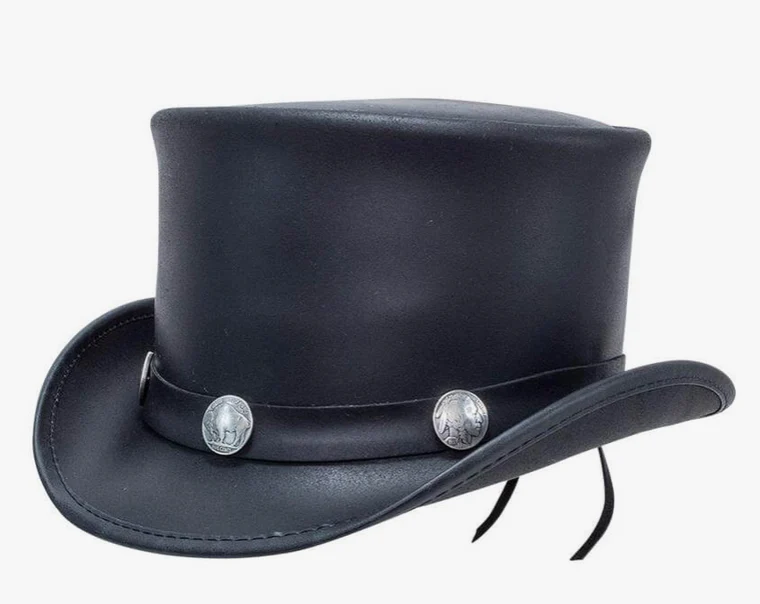
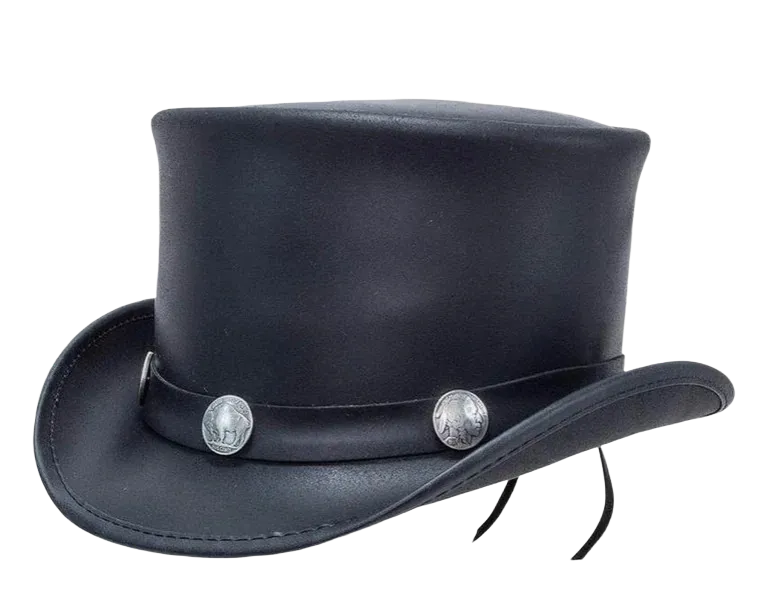
chore: convert images to webp for better site optimization

diff --git a/src/components/More.tsx b/src/components/More.tsx
@@ -22,7 +22,7 @@ export default function More() {
 
             <img
               className="rounded-full mr-4 border-10 border-purple-600"
-              src="/assets/images/sun-rise.jpg"
+              src="/assets/images/sun-rise.webp"
               alt="Sun Rise"
               width={250}
               height={250}
@@ -38,7 +38,7 @@ export default function More() {
               <div className="relative border w-80 h-50 border-10 border-yellow-400">
                 <img
                   className="absolute left-[-40px] bottom-[-40px] z-5"
-                  src="/assets/images/bucket-hat3.png"
+                  src="/assets/images/bucket-hat3.webp"
                   alt="Bucket Hat"
                   width={250}
                   height={250}
@@ -66,7 +66,7 @@ export default function More() {
             <div className="relative overflow-hidden border w-50 h-50 border-10 border-yellow-400 lg:w-80 lg:h-70">
               <img
                 className="absolute left-0 bottom-[-20px] z-5"
-                src="/assets/images/bucket-model2.png"
+                src="/assets/images/bucket-model2.webp"
                 alt="Bucket Model"
                 width={500}
                 height={250}
@@ -86,7 +86,7 @@ export default function More() {
             <div className="relative overflow-hidden border w-80 h-80 border-10 border-yellow-400 lg:w-100 lg:h-100">
               <img
                 className="absolute left-0 bottom-[-20px] z-5"
-                src="/assets/images/bucket-model.png"
+                src="/assets/images/bucket-model.webp"
                 alt="Bucket Model"
                 width={500}
                 height={250}
@@ -106,7 +106,7 @@ export default function More() {
 
             <img
               className="rounded-full mr-4 border-10 border-purple-600"
-              src="/assets/images/winter.jpg"
+              src="/assets/images/winter.webp"
               alt="Winter"
               width={250}
               height={250}
@@ -122,7 +122,7 @@ export default function More() {
               <div className="relative border w-60 h-50 border-10 border-cyan-400">
                 <img
                   className="absolute left-[-40px] bottom-[-100px] z-5"
-                  src="/assets/images/beanie.png"
+                  src="/assets/images/beanie.webp"
                   alt="Beanie"
                   width={250}
                   height={250}
@@ -135,7 +135,7 @@ export default function More() {
             <div className="relative overflow-hidden border w-50 h-60 border-10 border-cyan-400 lg:w-80 lg:h-70">
               <img
                 className="absolute left-[0px] bottom-[-20px] z-5"
-                src="/assets/images/beanie-model.png"
+                src="/assets/images/beanie-model.webp"
                 alt="Beanie Model"
                 width={250}
                 height={250}
@@ -151,7 +151,7 @@ export default function More() {
             <div className="relative border w-50 h-60 border-10 border-cyan-400 lg:w-80 lg:h-70">
               <img
                 className="absolute left-[-30px] bottom-[-20px] z-5"
-                src="/assets/images/hemp-beanie.png"
+                src="/assets/images/hemp-beanie.webp"
                 alt="Hemp Beanie"
                 width={250}
                 height={250}

diff --git a/src/data/index.ts b/src/data/index.ts
@@ -3,37 +3,37 @@ import type { TExtraCase, TTrendingHat } from "../types";
 export const extraCases: TExtraCase[] = [
   {
     name: "Snapback model",
-    url: "/assets/images/snapback-model.png",
+    url: "/assets/images/snapback-model.webp",
     borderColor: "border-red-500",
     hatType: "Snapback",
   },
   {
     name: "Top Hat Model",
-    url: "/assets/images/top-hat-model.png",
+    url: "/assets/images/top-hat-model.webp",
     borderColor: "border-brown-500",
     hatType: "Top Hat",
   },
   {
     name: "Beanie Model",
-    url: "/assets/images/beanie-model2.png",
+    url: "/assets/images/beanie-model2.webp",
     borderColor: "border-indigo-500",
     hatType: "Beanie",
   },
   {
     name: "Hardluck Snapback",
-    url: "/assets/images/hard-luck-snapback-hat.png",
+    url: "/assets/images/hard-luck-snapback-hat.webp",
     borderColor: "border-green-500",
     hatType: "Snapback",
   },
   {
     name: "Trucker Model",
-    url: "/assets/images/trucker-model.png",
+    url: "/assets/images/trucker-model.webp",
     borderColor: "border-cyan-500",
     hatType: "Trucker",
   },
   {
     name: "Fedora Model",
-    url: "/assets/images/fedora-model.png",
+    url: "/assets/images/fedora-model.webp",
     borderColor: "border-purple-500",
     hatType: "Fedora",
   },
@@ -48,19 +48,19 @@ export const trendingHats: TTrendingHat[] = [
   },
   {
     name: "Kxlade Heamp Beanie",
-    imgUrl: "/assets/images/hemp-beanie.png",
+    imgUrl: "/assets/images/hemp-beanie.webp",
     price: 1000,
     brand: "Kxlade",
   },
   {
     name: "Brandi Snapback",
-    imgUrl: "/assets/images/snapback-hat.jpg",
+    imgUrl: "/assets/images/snapback-hat.webp",
     price: 13200,
     brand: "Brandi",
   },
   {
     name: "Smiley Bucket Hat",
-    imgUrl: "/assets/images/bucket-hat.jpg",
+    imgUrl: "/assets/images/bucket-hat.webp",
     price: 5000,
     brand: "Kucci",
   },

diff --git a/src/components/Hero.tsx b/src/components/Hero.tsx
@@ -8,7 +8,7 @@ export default function Hero() {
         display: "flex",
         alignItems: "center",
         justifyContent: "center",
-        backgroundImage: "url(/assets/images/hero-bg.jpg)",
+        backgroundImage: "url(/assets/images/hero-bg.webp)",
         height: "100vh",
         backgroundAttachment: "fixed",
         backgroundPosition: "center",
@@ -36,7 +36,7 @@ export default function Hero() {
         </div>
         <img
           className=" absolute top-33 left-15 rotate-[-30deg] lg:top-16 lg:left-118 lg:block"
-          src="/assets/images/bucket-hat2.png"
+          src="/assets/images/bucket-hat2.webp"
           alt="Bucket Hat"
           width={100}
           height={100}
@@ -44,7 +44,7 @@ export default function Hero() {
 
         <img
           className="absolute top-69 left-32 lg:top-60 lg:left-76 lg:block"
-          src="/assets/images/top-hat.png"
+          src="/assets/images/top-hat.webp"
           alt="Top hat"
           width={100}
           height={100}
@@ -52,7 +52,7 @@ export default function Hero() {
 
         <img
           className=" absolute bottom-71 right-14 rotate-[-20deg] lg:bottom-55 lg:right-51 lg:block"
-          src="/assets/images/snapback-hat2.png"
+          src="/assets/images/snapback-hat2.webp"
           alt="Snapback"
           width={100}
           height={100}

diff --git a/src/components/Footer.tsx b/src/components/Footer.tsx
@@ -34,7 +34,7 @@ export default function Footer() {
         </div>
       </div>
 
-      <div className="lg:w-4/5">
+      <div className="flex flex-col items-start space-y-2 lg:w-4/5">
         <p>
           This is a fictional store, it doesn't actually exist and I own no
           rights to the images used, these were gotten online from brands like{" "}
@@ -67,7 +67,9 @@ export default function Footer() {
             Bobbs.
           </a>
         </p>
-        <p>Check them out if you are interested in the hats</p>
+        <p className="w-full lg:text-center">
+          Check them out if you are interested in the hats.
+        </p>
       </div>
 
       <p className="w-full text-center border-t py-2">
